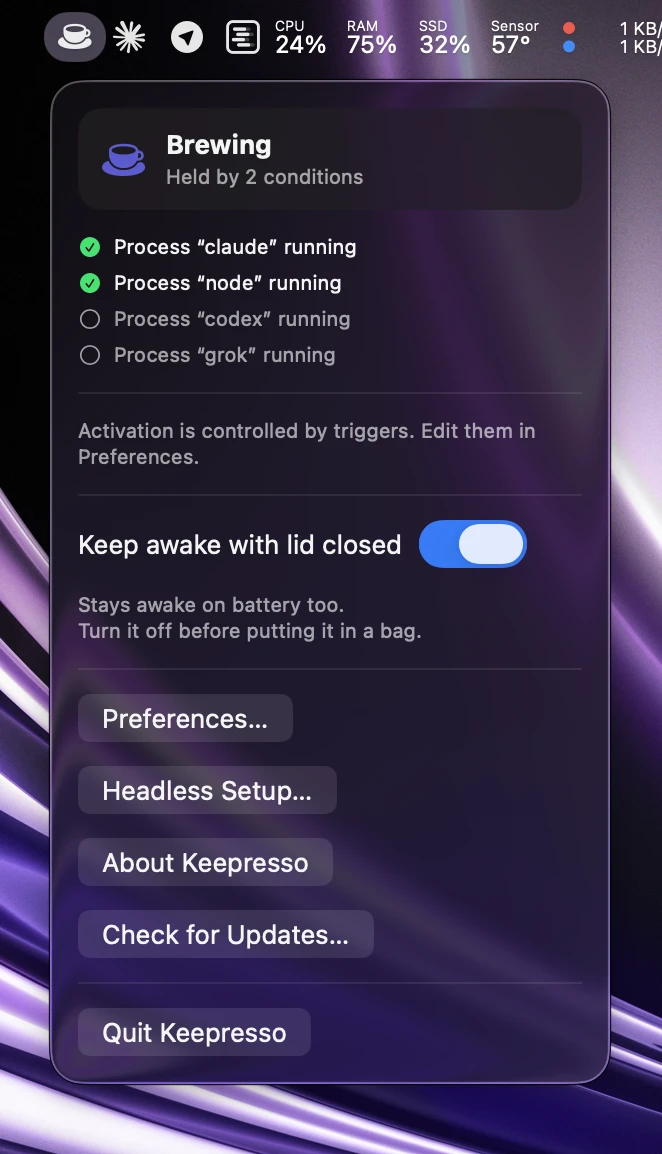
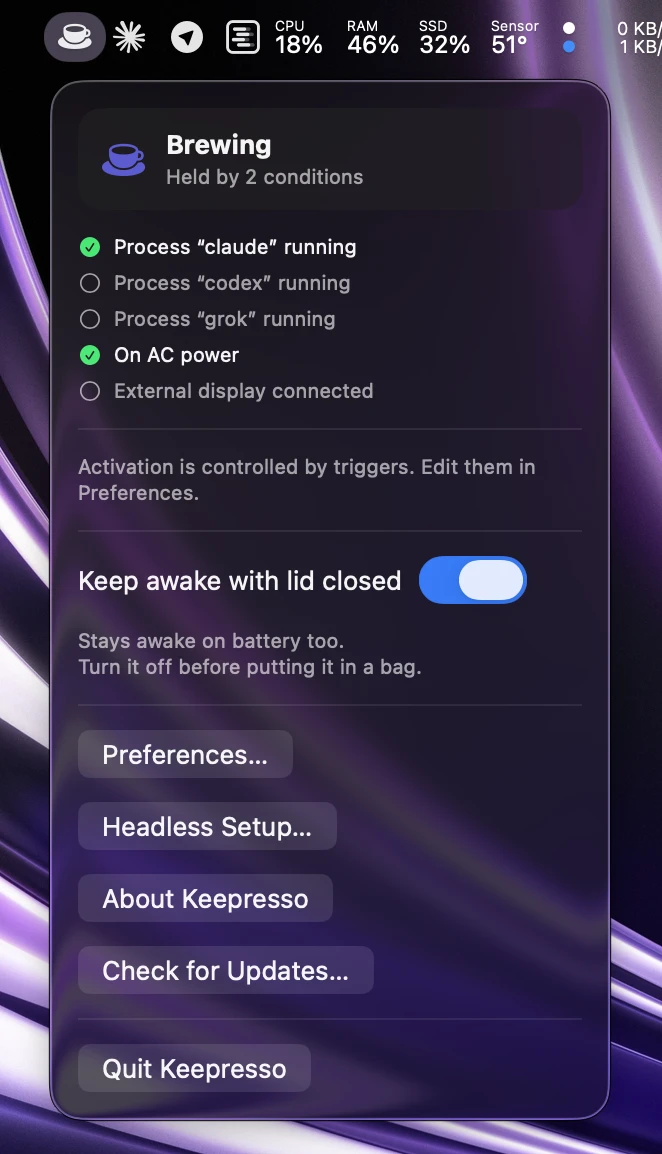
Add Preferences screenshots to README
Showcase the Triggers, General, Reminder, and Display tabs alongside
the existing menu screenshots.

diff --git a/README.md b/README.md
@@ -61,6 +61,31 @@ It lives quietly in the menu bar, no Dock icon, no clutter.
 - ⬆ **Self-updating.** Built-in auto-updates via [Sparkle](https://sparkle-project.org),
   with an EdDSA-signed appcast on GitHub Releases.
 
+## Screenshots
+
+<table>
+<tr>
+<td align="center" width="50%">
+  <img src="docs/assets/menu_triggers.webp" width="320" alt="Preferences: building a trigger rule set"><br>
+  <sub>Trigger engine: combine AC power, Wi-Fi, displays, and app conditions</sub>
+</td>
+<td align="center" width="50%">
+  <img src="docs/assets/menu_settings.webp" width="320" alt="Preferences: General tab with closed-display mode"><br>
+  <sub>General: keep-awake toggles, closed-display mode, launch at login</sub>
+</td>
+</tr>
+<tr>
+<td align="center" width="50%">
+  <img src="docs/assets/menu_reminder.webp" width="320" alt="Preferences: still-brewing reminder settings"><br>
+  <sub>Reminders: a "still brewing" alert so a forgotten session can't drain the battery</sub>
+</td>
+<td align="center" width="50%">
+  <img src="docs/assets/menu_display.webp" width="320" alt="Preferences: experimental headless virtual display"><br>
+  <sub>Headless virtual display: crisp Screen Sharing on a Mac with no monitor</sub>
+</td>
+</tr>
+</table>
+
 ## Built for the agentic era
 
 **The only app you'll ever need for a headless Mac setup**, whether it's running
